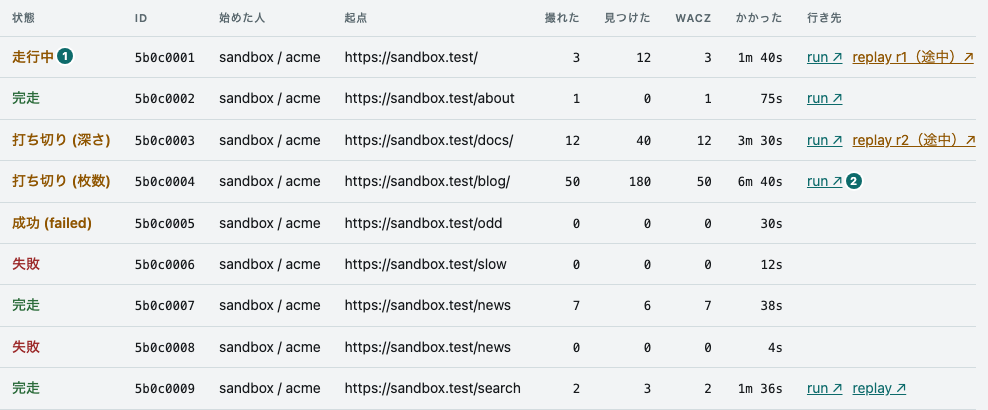
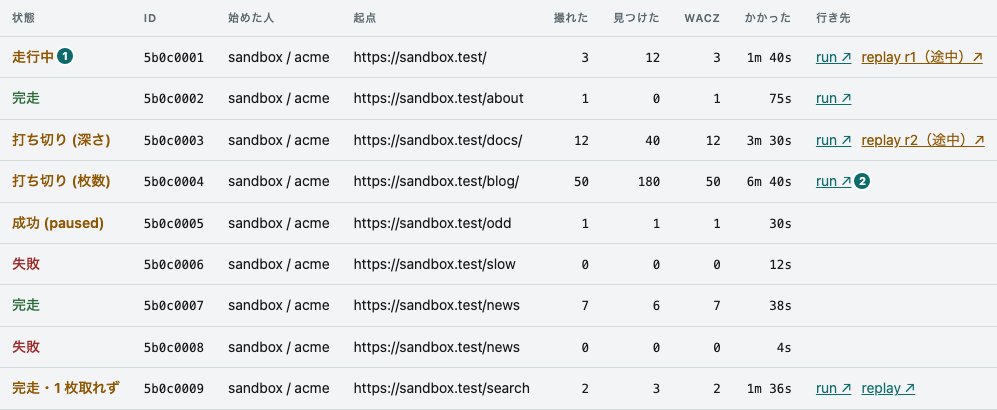
feat: クロールの行に取れなかったページの数を出す (#72)
capture-ledger v0.77.0 の pagesFailed を状態の欄に添える。全部を辿っても、取れなかったページが
あれば緑にしない（完走・2 枚取れず）。緑の「完走」は頼んだ物が全部撮れたときだけ。

- 代役の行に pagesFailed を足す。台帳がもう作らない succeeded・failed・0 枚の見本を替える
- docs の言い分けを直す
- クロールの画面の絵を撮り直す。撮る窓から表がはみ出しても右端が切れないようにする
- 絵の全部の枠を 226 KB にする（増えたぶん）

Claude-Session: https://claude.ai/code/session_01TRqfaNrVemcpAJLXQJs6EM

diff --git a/public/format.js b/public/format.js
@@ -8,23 +8,26 @@
 /**
  * クロールの状態を、**言葉にする**。
  *
- * **`state` だけでは足りない。** 実機の内訳（68 本の時点）:
+ * **`state` だけでは足りない。** `succeeded` は「1 枚以上撮れた」で（1 枚も撮れなければ台帳が `failed` で
+ * 締める。capture-ledger v0.77.0）、全部を辿った完走と、上限で止めた打ち切りが混ざる。実機の内訳（68 本の時点）:
  *
  *   succeeded / max_depth  41   ← 「成功」だが打ち切り
  *   failed    / failed     22
  *   succeeded / completed   4   ← 本当に全部辿った
- *   succeeded / failed      1   ← 状態と理由が食い違う。**隠さない**
  *
- * 最後の 1 本が肝。`succeeded` を無条件に「成功」と描くと、その行だけが嘘になる。
- * 知らない `stopReason` は、括弧に入れてそのまま見せる。
+ * **全部を辿っても、取れなかったページがあれば緑にしない。** 数を添える（`pagesFailed`）。緑の「完走」は、
+ * 頼んだ物が全部撮れたときだけ。知らない `stopReason` は、括弧に入れてそのまま見せる。
  */
 export const stateOf = (crawl) => {
   if (crawl.state === "running") return { text: "走行中", kind: "run" };
   if (crawl.state !== "succeeded") return { text: "失敗", kind: "bad" };
-  if (crawl.stopReason === "completed") return { text: "完走", kind: "ok" };
-  if (crawl.stopReason === "max_depth") return { text: "打ち切り (深さ)", kind: "warn" };
-  if (crawl.stopReason === "max_pages") return { text: "打ち切り (枚数)", kind: "warn" };
-  return { text: `成功 (${String(crawl.stopReason)})`, kind: "warn" };
+  const short = crawl.pagesFailed > 0 ? `・${String(crawl.pagesFailed)} 枚取れず` : "";
+  if (crawl.stopReason === "completed") {
+    return { text: `完走${short}`, kind: short === "" ? "ok" : "warn" };
+  }
+  if (crawl.stopReason === "max_depth") return { text: `打ち切り (深さ)${short}`, kind: "warn" };
+  if (crawl.stopReason === "max_pages") return { text: `打ち切り (枚数)${short}`, kind: "warn" };
+  return { text: `成功 (${String(crawl.stopReason)})${short}`, kind: "warn" };
 };
 
 /**

diff --git a/docs-site/src/content/docs/ja/screens.md b/docs-site/src/content/docs/ja/screens.md
@@ -91,7 +91,7 @@ dashboard は続きを取りに行きません。
   シークレットの値は出ません（台帳も WACZ も持たず、Windmill にだけ在ります）。
   クロールの途中で Windmill の変数が書き換えられていれば、どの段から替わったかが付きます。
   何も渡していないクロールは「渡した値: なし」の 1 行で、値を持たない古い台帳の行には何も出ません。
-  最後が取れなかったページで、並ぶのは台帳が返す分だけです。
+  最後が取れなかったページで、並ぶのは台帳が返す新しい 5 件です（全部の数は状態の欄の「N 枚取れず」で分かります）。
   1 つも無ければ、そう言って起点の URL を並べます。
 - **型の検査で落ちたクロールは、型の誤りを全部出し、直し方を訊ける。**
   台帳の `error` が compile の段の 422 を言うとき、dashboard は `/api/crawls/:id/diagnostics` も引きます。
@@ -148,6 +148,8 @@ dashboard は続きを取りに行きません。
 `state` だけでは足りません。
 `succeeded` には、全部を辿り終えた完走と、深さや枚数の上限で止めた打ち切りが混ざっています。
 dashboard は `stopReason` と合わせて「完走」「打ち切り (深さ)」のように言い分け、知らない `stopReason` は括弧に入れてそのまま見せます。
+取れなかったページがあれば「完走・2 枚取れず」のように数（台帳の `pagesFailed`）を添え、全部を辿っていても緑にしません。
+1 枚も撮れなかったクロールは台帳が `failed` で締めるので、「失敗」です。
 
 言い分けの規則は `public/format.js` の `stateOf` で、`test/format.test.mjs` が固定しています。
 ブラウザが読むのと同じファイルを試験も読むので、写しが腐りません。

diff --git a/docs-site/src/content/docs/screens.md b/docs-site/src/content/docs/screens.md
@@ -105,7 +105,7 @@ the crawl's bundle.
   appears: neither the ledger nor the WACZ holds it, only Windmill does. If the Windmill variable was
   rewritten while the crawl ran, the row says from which level. A crawl given nothing reads 渡した値:
   なし (values passed: none), and a row from an older ledger without values shows nothing here. Last
-  are the pages that failed, as many as the ledger returns; if none did, it says so and lists the seed
+  are the pages that failed, the latest 5 that the ledger returns (the state column gives the total); if none did, it says so and lists the seed
   URLs.
 - **A crawl that failed the type check shows all of its type errors, and can ask for a fix.** When the
   ledger's `error` says the compile step failed with a 422, the dashboard also fetches
@@ -183,7 +183,9 @@ the crawl's bundle.
 `state` alone is not enough. `succeeded` mixes crawls that followed everything to the end with
 crawls that stopped at the depth or page limit. The dashboard words them apart using `stopReason`
 (完走 for completed, 打ち切り for stopped at a limit), and shows an unknown `stopReason` as it
-is, in parentheses.
+is, in parentheses. If some pages could not be fetched it adds the count (the ledger's
+`pagesFailed`), as in 完走・2 枚取れず, and the row is not green even if everything was followed. A
+crawl that captured nothing is closed as `failed` by the ledger, so it reads 失敗.
 
 The wording rules are `stateOf` in `public/format.js`, pinned by `test/format.test.mjs`. The
 tests read the same file the browser reads, so there is no copy to rot.

diff --git a/docs-site/src/content/docs/ja/development.md b/docs-site/src/content/docs/ja/development.md
@@ -167,7 +167,7 @@ npm run docs:shots -- start crawls   # 名指した絵だけ
   控えを手で写して緑にしないこと —— 絵が古いまま残ります。
 - **名指して撮っても、控えは変わらない。**
   控えを今に合わせるのは、全部を撮ったときだけです。
-- **絵は lossless の WebP で、1 枚 32 KB・全部で 224 KB まで。**
+- **絵は lossless の WebP で、1 枚 32 KB・全部で 226 KB まで。**
   撮り直すたびに git に積もるからです。
   超えると `site:check` が落ちます。
   そのときは `docs-shots.mjs` の `SHOTS` で、写す箱を小さくするか、高さの上限（`maxHeight`）を下げます。

diff --git a/docs-site/src/content/docs/development.md b/docs-site/src/content/docs/development.md
@@ -179,7 +179,7 @@ npm run docs:shots -- start crawls   # only the named ones
   the pictures would stay stale.
 - **Taking named pictures leaves the stamp alone.** Only a run that takes all of them brings it up
   to date.
-- **The pictures are lossless WebP, at most 32 KB each and 224 KB in all,** because every re-take
+- **The pictures are lossless WebP, at most 32 KB each and 226 KB in all,** because every re-take
   piles up in git. Going over makes `site:check` fail; then make the cropped box smaller, or lower
   its height limit (`maxHeight`), in `SHOTS` in `docs-shots.mjs`.
 - **A picture meant to be read fits the docs' column.** The docs show a picture at its pixel size,
